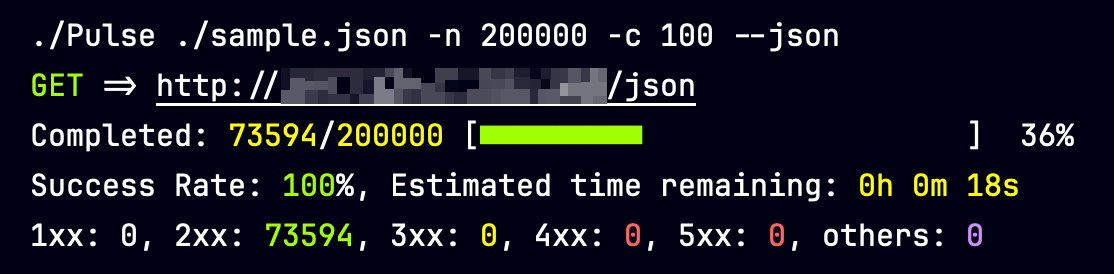
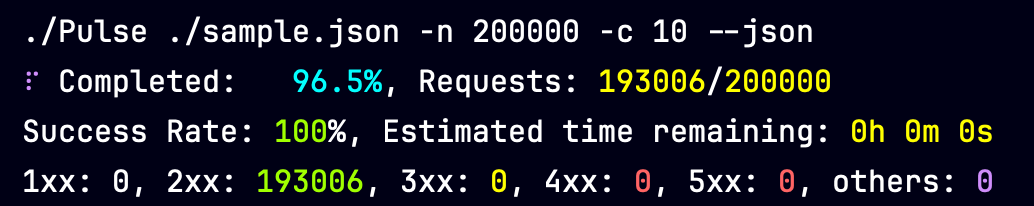
Update formatting of dashboard

diff --git a/src/Pulse/Core/Pulse.cs b/src/Pulse/Core/Pulse.cs
@@ -133,7 +133,7 @@ internal sealed partial class Pulse {
     private static void PrintMetrics(Stats stats) {
         Console.Overwrite(stats, static s => {
             var spinner = IndeterminateProgressBar.Patterns.Braille;
-            Console.WriteLineInterpolated(OutputPipe.Error, $"{Magenta}{spinner[s.SpinnerIndex]}{ConsoleColor.DefaultForeground} Completed: {Magenta}{s.Percentage,6:#.##}%{ConsoleColor.DefaultForeground}, Requests: {Yellow}{s.CurrentCount.Value}{ConsoleColor.DefaultForeground}/{Yellow}{s.RequestCount}{ConsoleColor.DefaultForeground}");
+            Console.WriteLineInterpolated(OutputPipe.Error, $"{Magenta}{spinner[s.SpinnerIndex]}{ConsoleColor.DefaultForeground} Completed: {Cyan}{s.Percentage,6:#.##}%{ConsoleColor.DefaultForeground}, Requests: {Yellow}{s.CurrentCount.Value}{ConsoleColor.DefaultForeground}/{Yellow}{s.RequestCount}{ConsoleColor.DefaultForeground}");
             Console.WriteLineInterpolated(OutputPipe.Error, $"Success Rate: {Helper.GetPercentageBasedColor(s.SuccessRate)}{s.SuccessRate}{ConsoleColor.DefaultForeground}%, Estimated time remaining: {Yellow}{s.Eta:duration}");
             Console.WriteInterpolated(OutputPipe.Error, $"1xx: {White}{s.StatusCodes[1].Value}{ConsoleColor.DefaultForeground}, 2xx: {Green}{s.StatusCodes[2].Value}{ConsoleColor.DefaultForeground}, 3xx: {Yellow}{s.StatusCodes[3].Value}{ConsoleColor.DefaultForeground}, 4xx: {Red}{s.StatusCodes[4].Value}{ConsoleColor.DefaultForeground}, 5xx: {Red}{s.StatusCodes[5].Value}{ConsoleColor.DefaultForeground}, others: {Magenta}{s.StatusCodes[0].Value}");
         }, 3);
